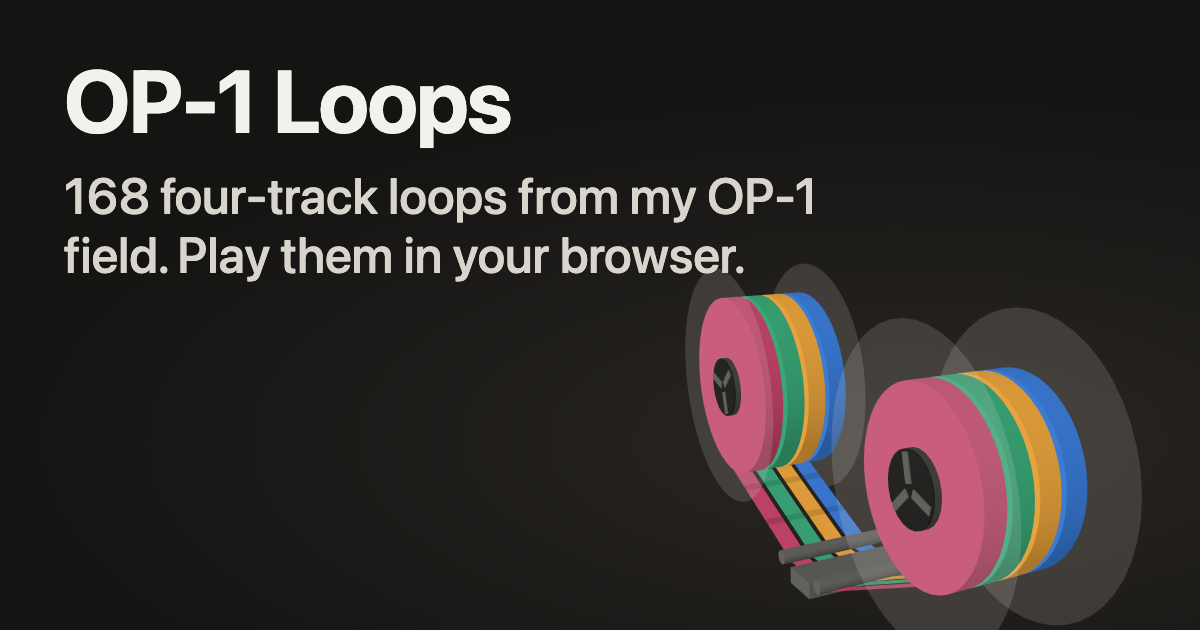
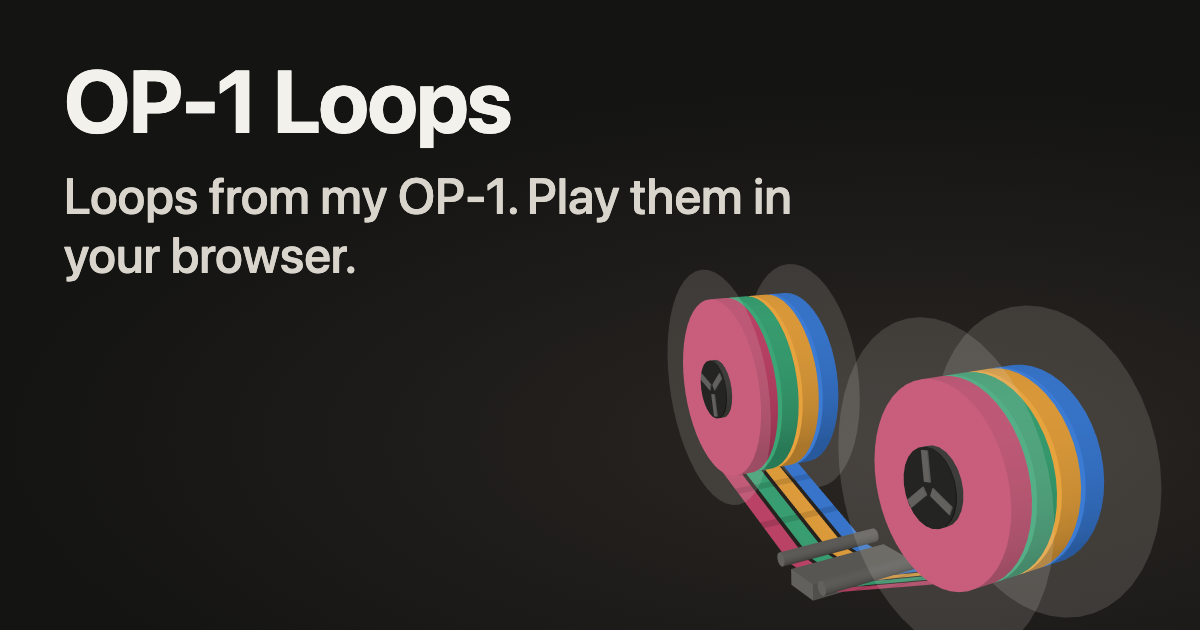
Say "Loops from my OP-1" instead of claiming an OP-1 field
Updates the page and share-card description, the card image, the line in
the ? box and the README; the card URL moves to ?v=2 so X refetches it.

diff --git a/app/layout.tsx b/app/layout.tsx
@@ -5,9 +5,9 @@ import "./globals.css";
 // absolute, which link previews need; the Pages workflow sets it.
 const site = process.env.SITE_URL?.replace(/\/$/, "");
 const title = "OP-1 Loops";
-const description = "168 four-track loops from my OP-1 field. Play them in your browser.";
+const description = "Loops from my OP-1. Play them in your browser.";
 // ?v= busts link-preview caches: bump it when public/og.png changes
-const cardUrl = `${site}/og.png?v=1`;
+const cardUrl = `${site}/og.png?v=2`;
 
 export const metadata: Metadata = {
   title,

diff --git a/components/LoopApp.tsx b/components/LoopApp.tsx
@@ -453,8 +453,7 @@ export default function LoopApp({
             </button>
             <h2>OP-1 Loops</h2>
             <p className="modal-story">
-              Musical ideas from my OP-1 field{span ? `, ${span}` : ""}: {tapes.length || shownTapes.length} tapes,{" "}
-              {loops.length} four-track loops.
+              Loops from my OP-1{span ? `, ${span}` : ""}: {tapes.length || shownTapes.length} tapes, {loops.length} loops.
             </p>
             <dl className="modal-keys">
               <dt><kbd>Space</kbd></dt>

diff --git a/README.md b/README.md
@@ -2,7 +2,7 @@
 
 **▶ Listen: [akivab.github.io/op1-loops](https://akivab.github.io/op1-loops/)**
 
-Four-track loops cut from my OP-1 field tapes, played sample-accurately in the browser with the
+Loops from my OP-1, cut from its tape backups and played sample-accurately in the browser with the
 Web Audio API. Switch tracks on and off (now or on the next loop) and watch the mix and
 spectrum. Press `?` on the page for the controls.
 
@@ -19,13 +19,13 @@ spectrum. Press `?` on the page for the controls.
 The page is a player only: there is no editing on it. Loop points and names are set in
 `data/loops.json`.
 
-## Set it up for your own OP-1 field
+## Set it up for your own OP-1
 
-It reads OP-1 field tapes: each tape folder holds `track_1.wav` … `track_4.wav` and a
+It reads OP-1 tape backups: each tape folder holds `track_1.wav` … `track_4.wav` and a
 `tape.json` that lists every clip (where each recording starts and stops). That clip list is
-how loops are found, so you need tapes from an OP-1 field.
+how loops are found, so your tapes need one.
 
-1. **Back up your tapes.** Copy the OP-1 field's `tapes` folder to your computer. Archived tapes
+1. **Back up your tapes.** Copy the OP-1's `tapes` folder to your computer. Archived tapes
    are named for the day they were started (`2023-044#01` is day 44 of 2023), and `tape 01` is
    the one still on the device. Keep the files' modification times when you copy (e.g.
    `cp -Rp`), since the sidebar's "last saved" dates come from each `tape.json`'s mtime.
@@ -50,7 +50,7 @@ how loops are found, so you need tapes from an OP-1 field.
 5. **Listen.** `npm run dev` and open http://localhost:3000. To name a loop or change its
    points, edit it in `data/loops.json` (see [The loop list](#the-loop-list)).
 6. **Make it yours.** The one-line story in the `?` box is in `components/LoopApp.tsx` (search
-   for "Musical ideas"), and the page description is in `app/layout.tsx`.
+   for "Loops from my OP-1"), and the page description is in `app/layout.tsx`.
 7. **Publish.** Encode the stems for the web, commit and push:
 
        npm run encode
